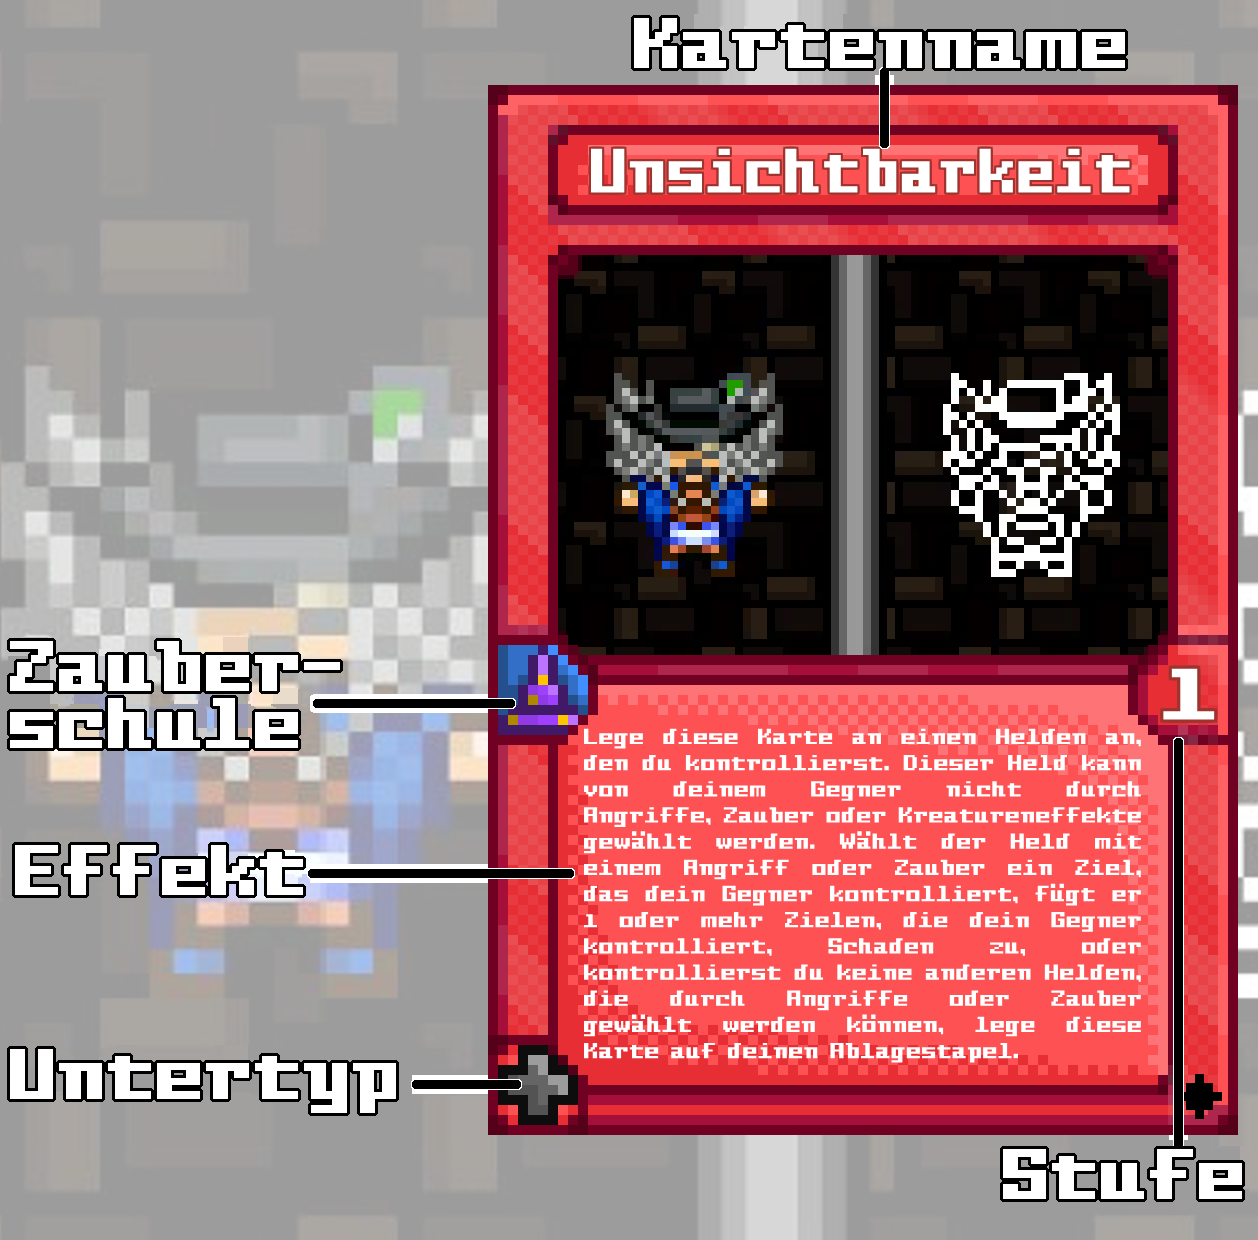
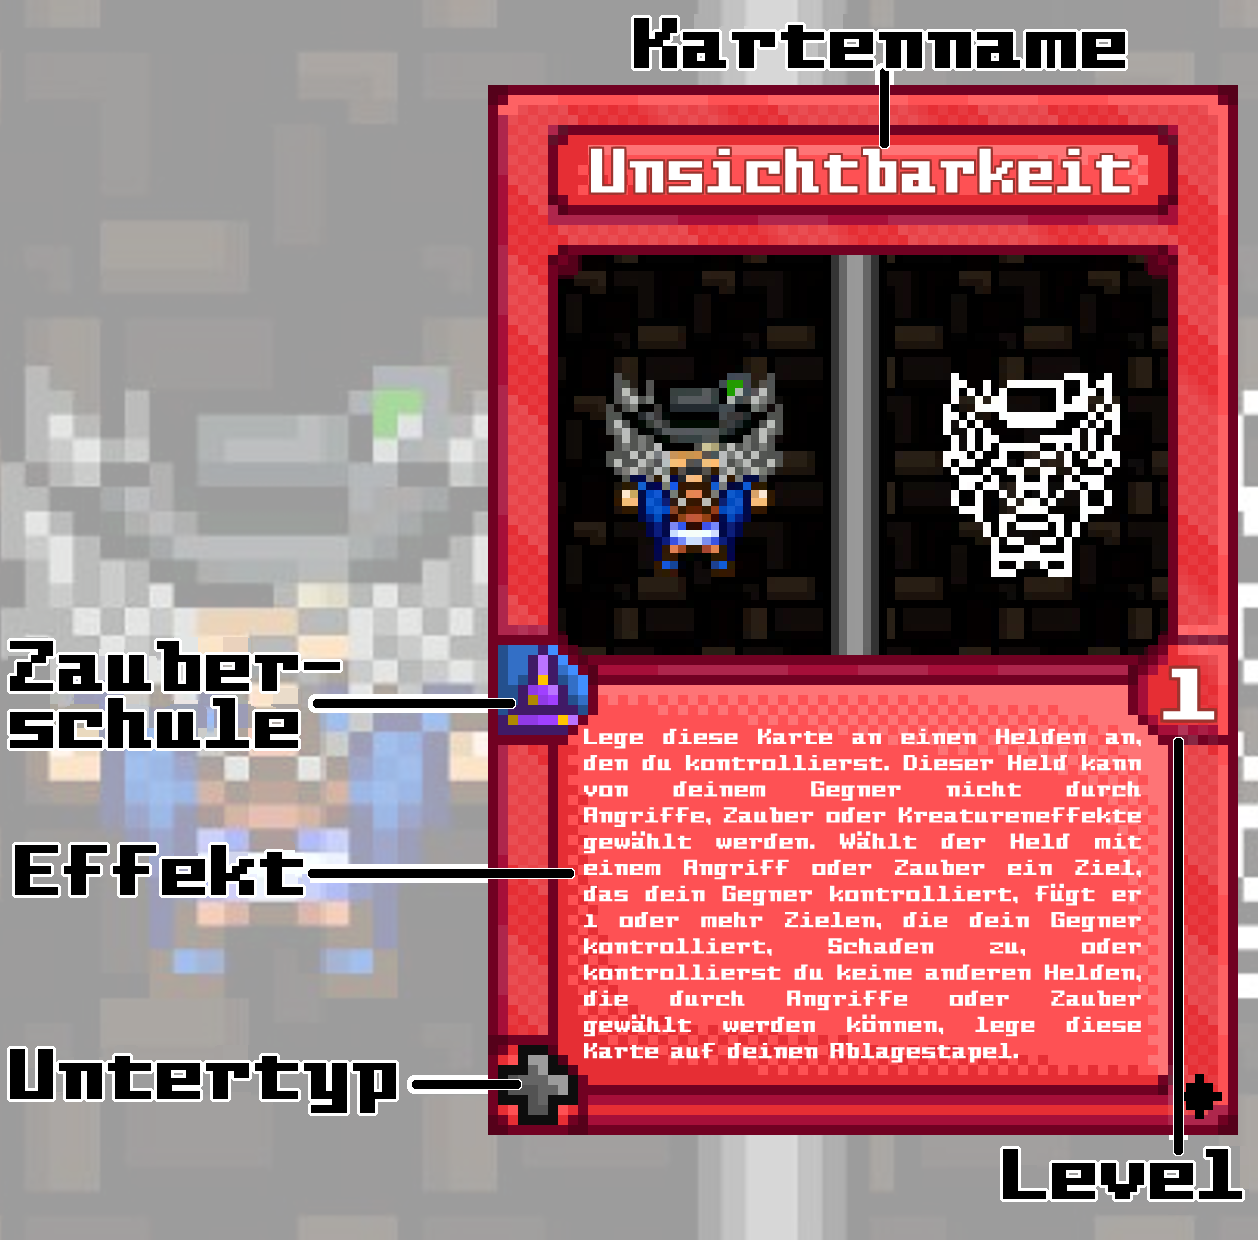
i18n: Regelbild spell.png im Stil des Originals (schwarze Schrift, weiße Kontur), Label 'Level', Linie bis zum Label
Claude-Session: https://claude.ai/code/session_012viCd6CLZBZj7oRdhobJ6m

diff --git a/scripts/i18n/regel-bilder.py b/scripts/i18n/regel-bilder.py
@@ -5,7 +5,7 @@ Die Bilder bestehen aus einer eingebetteten Karte (750x1050, 1:1) vor einem unsc
 Hilfslinien. Fuer die deutsche Fassung:
   1. die englischen Beschriftungen entfernen (Text = reines Weiss/Schwarz; die Luecke wird zellenweise mit der Hintergrundfarbe gefuellt),
   2. die Karte durch ihre deutsche Darstellung ersetzen (Render aus dem Spiel: card-de-<Name>.png, siehe regel-bilder.js),
-  3. deutsche Beschriftungen in der Kartenschrift (public/cardgen/glyphs.json) mit schwarzer Kontur zeichnen.
+  3. deutsche Beschriftungen in der Kartenschrift (public/cardgen/glyphs.json) mit weisser Kontur zeichnen (schwarze Schrift, wie im Original).
 Aufruf: python3 scripts/i18n/regel-bilder.py <spell|ability|...> <Ordner mit card-de-*.png/card-en-*.png> [Ausgabeordner]
 """
 import json, sys, os
@@ -67,7 +67,7 @@ def draw_label(img, lines, x, baseline, align='left', c=7, outline=3, line_h=Non
         px = x if align == 'left' else (x - W if align == 'right' else x - W // 2)
         py = baseline + i * line_h - base
         layer = np.zeros(big.shape + (4,), np.uint8)
-        layer[edge] = (0, 0, 0, 255); layer[big] = (255, 255, 255, 255)
+        layer[edge] = (255, 255, 255, 255); layer[big] = (0, 0, 0, 255)   # wie im Original: schwarze Schrift mit weisser Kontur
         img.alpha_composite(Image.fromarray(layer, 'RGBA'), (px - pad, py - pad))
 
 def components(mask):
@@ -94,7 +94,8 @@ def erase(img_rgb, box, gx, gy):
     for pts in components(m):
         ys = [p[0] for p in pts]; xs = [p[1] for p in pts]
         w, h = max(xs) - min(xs) + 1, max(ys) - min(ys) + 1
-        if (w > 60 and h < 14) or (h > 60 and w < 14): keep[tuple(zip(*pts))] = True   # Verbindungslinien bleiben
+        beruehrt = min(ys) == 0 or max(ys) == m.shape[0] - 1 or min(xs) == 0 or max(xs) == m.shape[1] - 1
+        if (w > 60 and h < 14) or (h > 60 and w < 14) or (beruehrt and (w < 14 or h < 14)): keep[tuple(zip(*pts))] = True   # Verbindungslinien (auch angeschnittene Enden) bleiben
     m &= ~keep
     m = dilate(m, 1) & ~keep
     # Zellgrenzen
@@ -154,7 +155,7 @@ CONFIG = {
       dict(lines=['Zauber-', 'schule'], x=10, baseline=690, align='left'),
       dict(lines=['Effekt'], x=15, baseline=894, align='left'),
       dict(lines=['Untertyp'], x=10, baseline=1098, align='left'),
-      dict(lines=['Stufe'], x=1250, baseline=1198, align='right'),
+      dict(lines=['Level'], x=1250, baseline=1198, align='right'),
     ],
   },
 }
